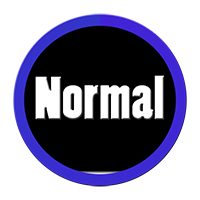
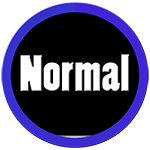
menu rimodernato e musica funzionante

diff --git a/bdsir_takearound/src/it/unisa/bdsir_takearound/game/LoadingScreen.java b/bdsir_takearound/src/it/unisa/bdsir_takearound/game/LoadingScreen.java
@@ -43,14 +43,14 @@ public class LoadingScreen extends Screen {
     	Assets.audioNormal3 = game.getAudio().newMusic("difficile.ogg");
     	Assets.audioRush = game.getAudio().newMusic("rush.ogg");
 
-    	Assets.background = g.newPixmap("menu_incompleto_mod.png", PixmapFormat.RGB565);
+    	Assets.background = g.newPixmap("sfondo3mod.jpg", PixmapFormat.RGB565);
     	Assets.playnormalbutton = g.newPixmap("playnormalmod.png", PixmapFormat.ARGB4444);
     	Assets.playrushbutton = g.newPixmap("playrushmod.png", PixmapFormat.ARGB4444);
 
 
     	//Assets.playbutton = g.newPixmap("play.png", PixmapFormat.ARGB4444);
-    	Assets.tutorialbutton = g.newPixmap("pulsante_tutorial.png", PixmapFormat.ARGB4444);
-    	Assets.recordbutton = g.newPixmap("pulsante_record.png", PixmapFormat.ARGB4444);
+    	Assets.tutorialbutton = g.newPixmap("tutorialmod.png", PixmapFormat.ARGB4444);
+    	Assets.recordbutton = g.newPixmap("recordmod.png", PixmapFormat.ARGB4444);
 
     	//caricamento immagini numeri
     	Assets.num0 = g.newPixmap("default-0.png", PixmapFormat.ARGB4444);
